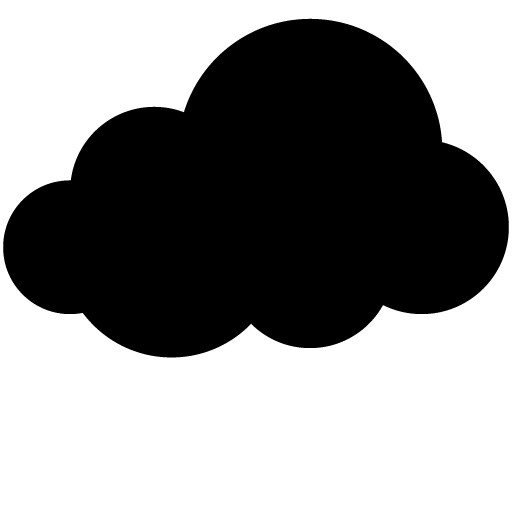
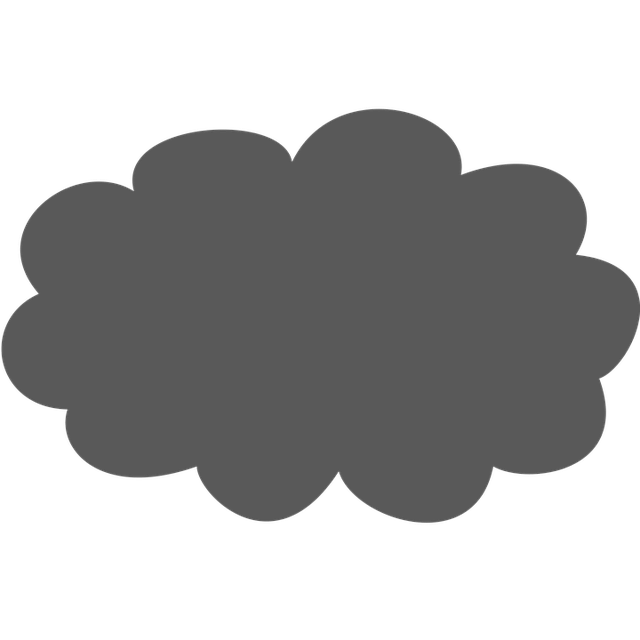
Fixes #32 Clouds changed and Animation added

diff --git a/Game.js b/Game.js
@@ -202,7 +202,7 @@ function startLevel2() {
 		for (var i=0; i<100; i++) {
 	        var x = Math.floor((Math.random() * (900 - i * 300) + 1));;
 					clouds[i] = new component();
-					clouds[i].init(60, 60, "Pictures/cloud2.png", x, 40, "image", 1);
+					clouds[i].init(65, 50, "Pictures/cloud2.png", x, 40, "image", 1);
 	  }
 
     //call start function
@@ -251,7 +251,7 @@ function startLevel3() {
 		for (var i=0; i<100; i++) {
 	        var x = Math.floor((Math.random() * (900 - i * 300) + 1));;
 					clouds[i] = new component();
-					clouds[i].init(60, 34, "Pictures/cloud.png", x, 40, "image", 1);
+					clouds[i].init(60, 40, "Pictures/cloud3.png", x, 40, "image", 1);
 	  }
 
     //call start function
@@ -300,7 +300,7 @@ function startLevel3() {
 				for (var i=0; i<100; i++) {
 			        var x = Math.floor((Math.random() * (900 - i * 300) + 1));;
 							clouds[i] = new component();
-							clouds[i].init(60, 60, "Pictures/cloud2.png", x, 40, "image", 1);
+							clouds[i].init(65, 50, "Pictures/cloud2.png", x, 40, "image", 1);
 			  }
 
     //call start function
@@ -601,7 +601,7 @@ function updateGameArea() {
 
 	//when frame number reaches 3000 (point at which obstacles end) end game
 	//check current level, if more than 2 (because there is two levels currently), show game complete modal
-    if (gameArea.score >= 3000) {
+    if (gameArea.score >= 600) {
 		gameArea.stop();
 		currentLevel++;
 
